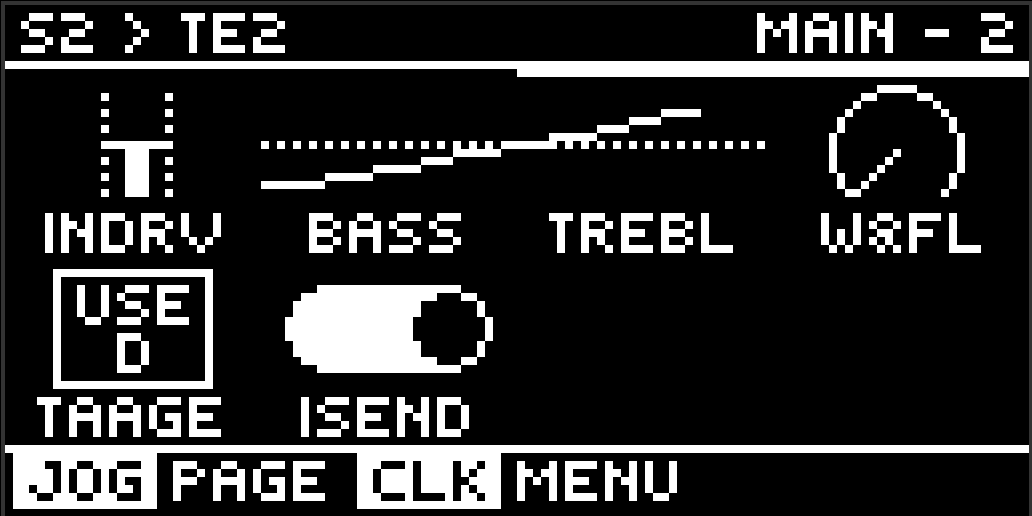
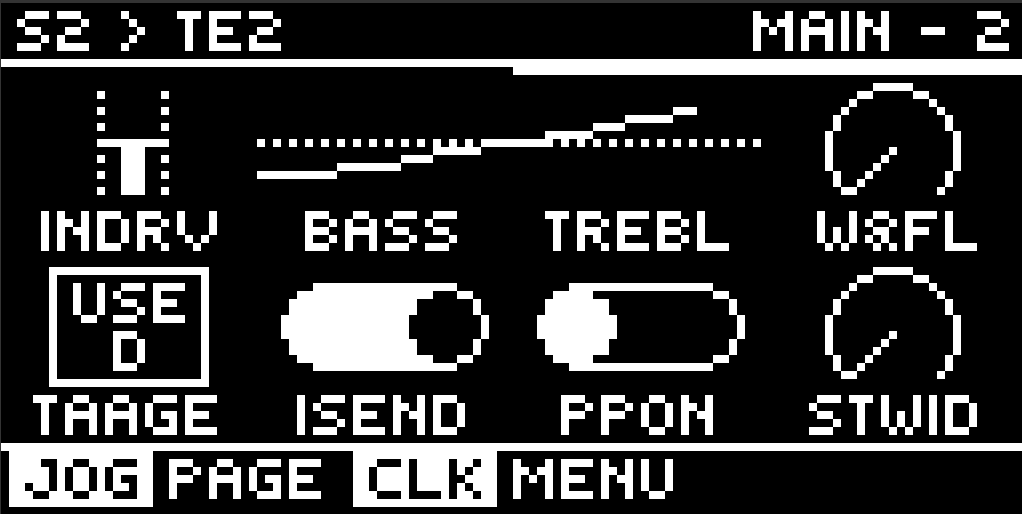
docs: current screenshots, and stop claiming the core is unmodified
The device and panel shots predated Ping Pong and Stereo Width, so the README
listed controls the pictures did not show. Replaced with page 2 carrying all
eight (PPON and STWID included) and the panel with its Stereo Width knob and
Ping Pong switch.

The panel footer and help.json Credits still read "vendored unmodified",
which stopped being true in v1.3.0 when the per-head ping-pong stage went into
the core. That is an attribution statement, so it now says what the code
actually is — one marked Schwung change, identical to upstream with Ping Pong
off. The README already said this; these two did not.

v1.3.3

diff --git a/src/web_ui.html b/src/web_ui.html
@@ -176,7 +176,7 @@
   </div>
 
   <div class="foot">
-    DSP: <a href="https://github.com/dusk-audio/dusk-audio-plugins" target="_blank" rel="noreferrer">Tape Echo 2 — Dusk Audio</a>, GPL-3.0, vendored unmodified · Move port by athousanddetails
+    DSP: <a href="https://github.com/dusk-audio/dusk-audio-plugins" target="_blank" rel="noreferrer">Tape Echo 2 — Dusk Audio</a>, GPL-3.0, with one Schwung change (per-head Ping Pong) · Move port by athousanddetails
   </div>
 </div>
 
